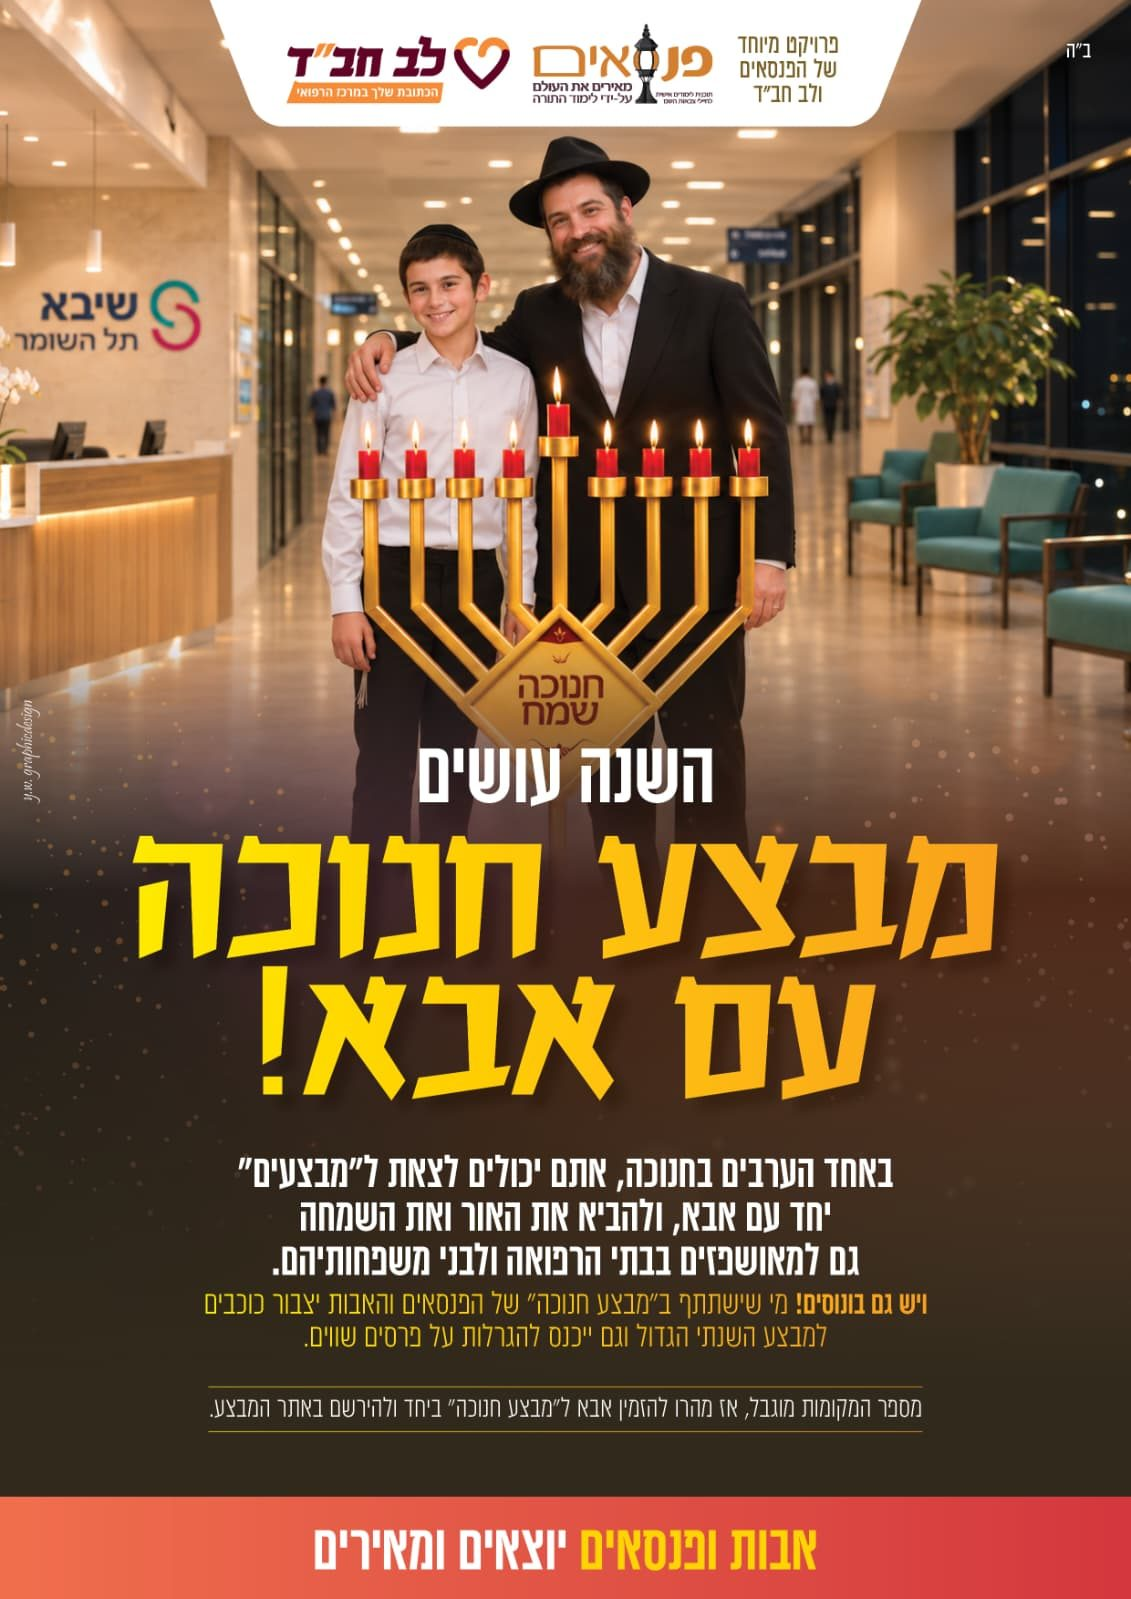
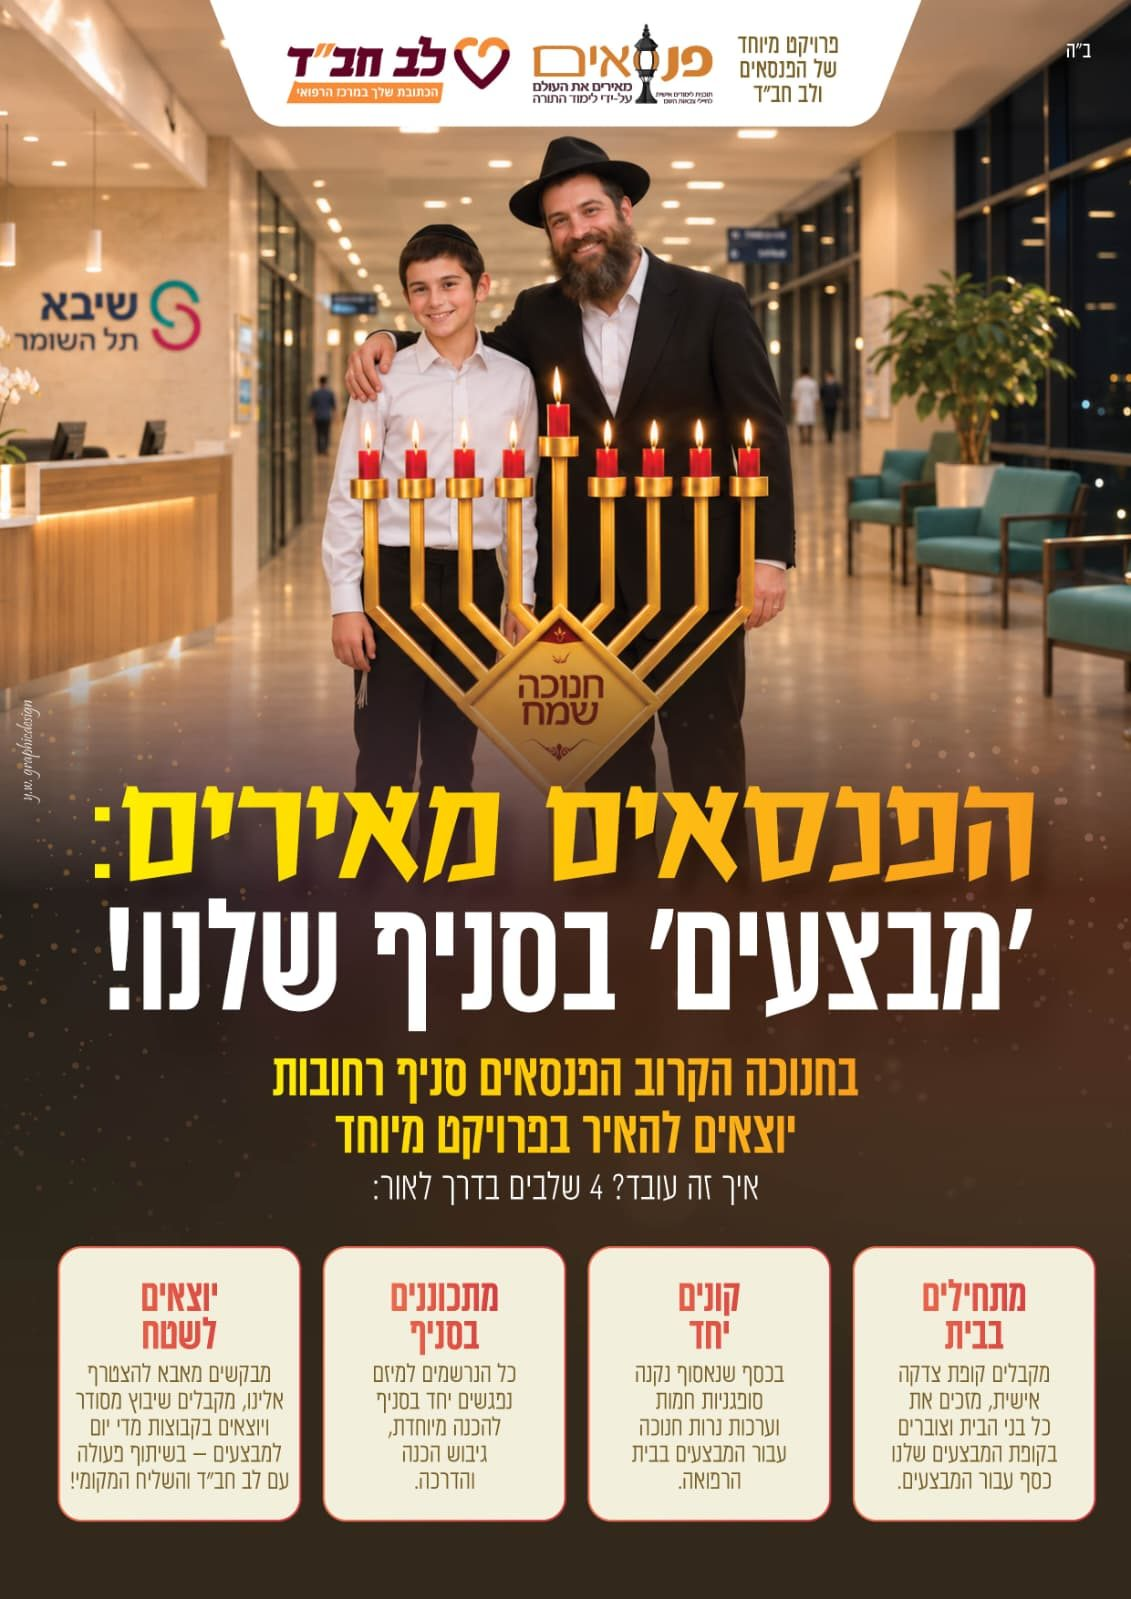
Replace ad image with the Rehovot branch version
Claude-Session: https://claude.ai/code/session_012yNxS5uKdrBvMb9kg2zhb9

diff --git a/index.html b/index.html
@@ -6,7 +6,7 @@
 <meta name="description" content="הרשמה למבצעי חנוכה עם אבא בבתי הרפואה – פנסאים ולב חב"ד">
 <meta property="og:title" content="מבצע חנוכה עם אבא!">
 <meta property="og:description" content="הרשמה למבצעי חנוכה עם אבא בבתי הרפואה – פנסאים ולב חב"ד">
-<meta property="og:image" content="https://shmulikc-arch.github.io/mivtzachanuka/ad.jpg">
+<meta property="og:image" content="https://shmulikc-arch.github.io/mivtzachanuka/ad.jpg?v=2">
 <link rel="icon" href="favicon.svg" type="image/svg+xml">
 <link rel="icon" href="favicon-32.png" sizes="32x32" type="image/png">
 <link rel="apple-touch-icon" href="apple-touch-icon.png">
@@ -250,7 +250,7 @@ footer{color:var(--muted);font-size:14px;text-align:center;padding-block:32px 40
 </script>
 <div class="wrap">
   <header class="poster">
-    <img src="ad.jpg" width="1131" height="1599" alt="השנה עושים מבצע חנוכה עם אבא! פרויקט מיוחד של הפנסאים ולב חב&quot;ד">
+    <img src="ad.jpg?v=2" width="1131" height="1599" alt="הפנסאים מאירים: &quot;מבצעים&quot; בסניף שלנו! פרויקט מיוחד של הפנסאים ולב חב&quot;ד">
     <a class="cta" href="#register">להרשמה למבצע</a>
   </header>
 
